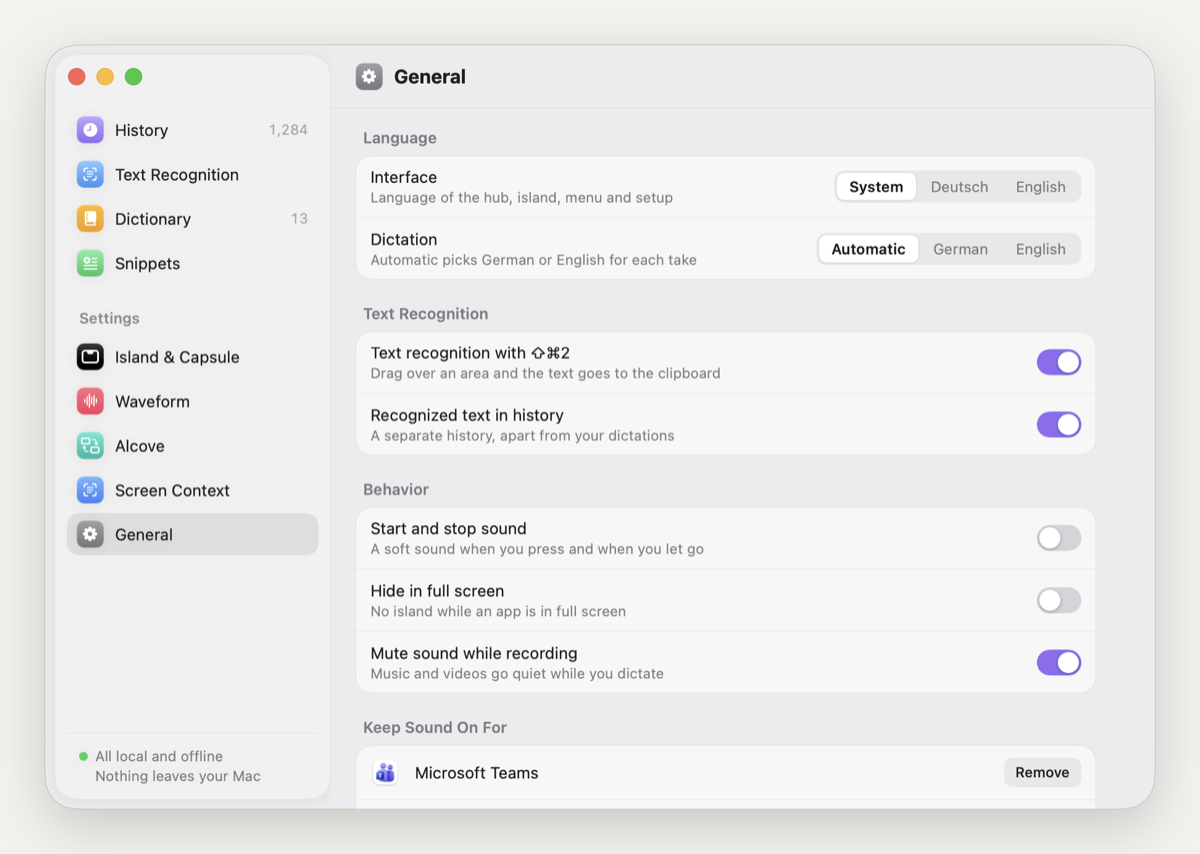
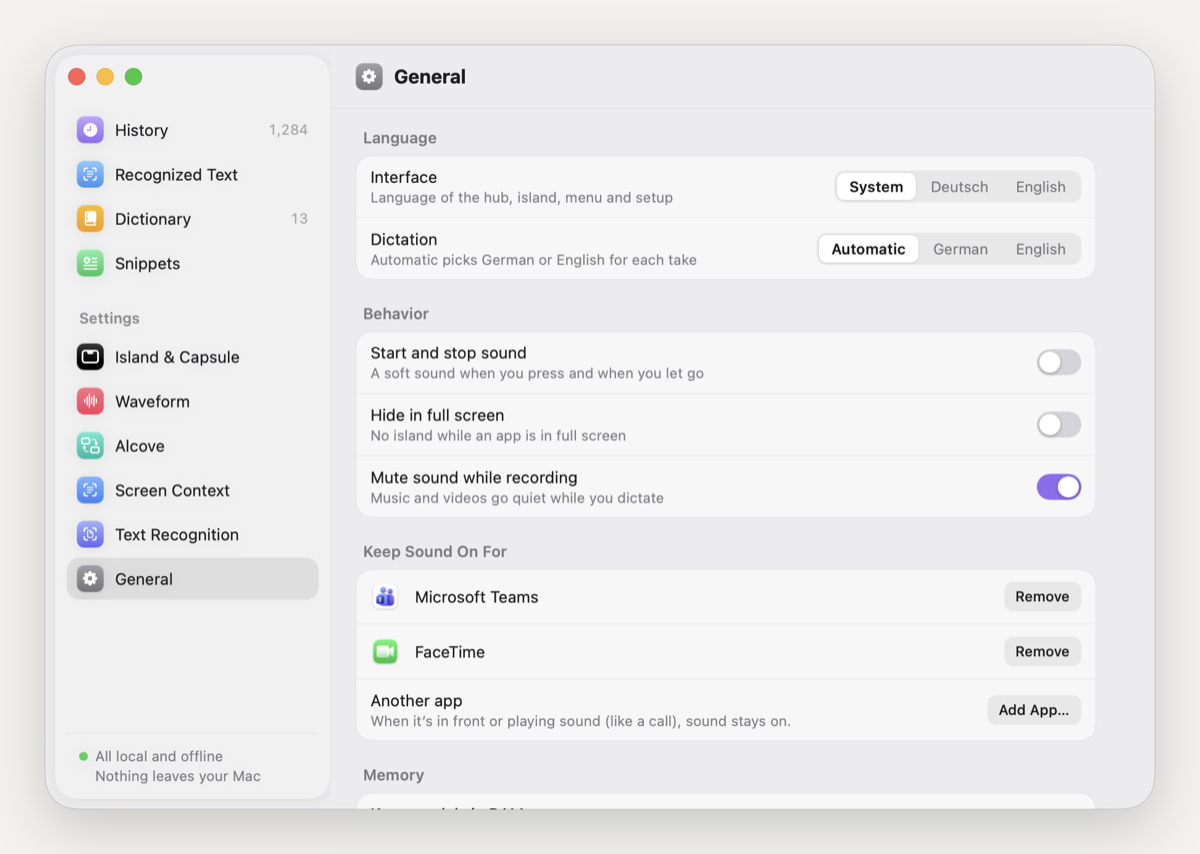
Hub: text recognition gets its own settings category (⇧⌘2, history, formulas, formulas per app); the list of recognized texts is called Erkannte Texte

diff --git a/ui/Hub.swift b/ui/Hub.swift
@@ -157,12 +157,12 @@ struct HubIcon {
 }
 
 enum HubPane: String, CaseIterable, Identifiable {
-    case verlauf, texterkennung, woerterbuch, kuerzel, insel, welle, alcove, kontext, allgemein
+    case verlauf, texterkennung, woerterbuch, kuerzel, insel, welle, alcove, kontext, erkennung, allgemein
 
     static let top: [HubPane] = [.verlauf, .texterkennung, .woerterbuch, .kuerzel]
     /// the Alcove pane only exists when Alcove is installed
     static var settings: [HubPane] {
-        [.insel, .welle, .alcove, .kontext, .allgemein].filter { $0 != .alcove || HubSystem.alcoveInstalled() }
+        [.insel, .welle, .alcove, .kontext, .erkennung, .allgemein].filter { $0 != .alcove || HubSystem.alcoveInstalled() }
     }
 
     var id: String { rawValue }
@@ -170,7 +170,8 @@ enum HubPane: String, CaseIterable, Identifiable {
     var title: String {
         switch self {
         case .verlauf: return L("Verlauf")
-        case .texterkennung: return L("Texterkennung")
+        case .texterkennung: return L("Erkannte Texte")
+        case .erkennung: return L("Texterkennung")
         case .woerterbuch: return L("Wörterbuch")
         case .kuerzel: return L("Kürzel")
         case .insel: return L("Insel & Kapsel")
@@ -193,6 +194,7 @@ enum HubPane: String, CaseIterable, Identifiable {
         case .welle: return HubIcon(symbol: "waveform", top: 0xFB7185, bottom: 0xF43F5E)
         case .alcove: return HubIcon(symbol: "rectangle.2.swap", top: 0x5EEAD4, bottom: 0x14B8A6)
         case .kontext: return HubIcon(symbol: "text.viewfinder", top: 0x7DB6FF, bottom: 0x3B82F6)
+        case .erkennung: return HubIcon(symbol: "doc.text.viewfinder", top: 0xA5B4FC, bottom: 0x6366F1)
         case .allgemein: return HubIcon(symbol: "gearshape.fill", top: 0xA1A1A6, bottom: 0x76767B)
         }
     }
@@ -531,6 +533,7 @@ struct HubDetail: View {
             case .welle: HubWavePane(model: model)
             case .alcove: HubAlcovePane(model: model)
             case .kontext: HubContextPane(model: model)
+            case .erkennung: HubScreenTextPane(model: model)
             case .allgemein: HubGeneralPane(model: model)
             }
         }
@@ -1861,19 +1864,6 @@ struct HubGeneralPane: View {
                                      select: { v in model.update { $0.dictationLanguage = v } })
                     }
                 }
-                HubGroupLabel(L("Texterkennung"), top: 20)
-                HubCard {
-                    HubRow(L("Texterkennung mit ⇧⌘2"), subtitle: L("Bereich aufziehen, der Text landet in der Zwischenablage. ⌥ antippen für Formeln")) {
-                        HubSwitch(isOn: model.binding(\.screenText))
-                    }
-                    HubSeparator()
-                    HubRow(L("Erkannte Texte im Verlauf"), subtitle: L("Eigener Verlauf, getrennt von den Diktaten")) {
-                        HubSwitch(isOn: model.binding(\.screenTextHistory))
-                    }
-                }
-                if model.state.settings.screenText {
-                    HubFormulaApps(model: model)
-                }
                 HubGroupLabel(L("Verhalten"), top: 20)
                 HubCard {
                     HubRow(L("Start- und Stopp-Ton"), subtitle: L("Leiser Ton beim Drücken und beim Loslassen")) {
@@ -2724,6 +2714,39 @@ enum HubContextCopy {
     static func appName(_ bundle: String) -> String {
         guard let url = NSWorkspace.shared.urlForApplication(withBundleIdentifier: bundle) else { return bundle }
         return FileManager.default.displayName(atPath: url.path).replacingOccurrences(of: ".app", with: "")
+    }
+}
+
+/// Texterkennung settings (05.10., Nils: out of Allgemein, into a category of their own):
+/// ⇧⌘2 on or off, its history, the formulas and what each app gets.
+struct HubScreenTextPane: View {
+    let model: HubModel
+
+    var body: some View {
+        VStack(spacing: 0) {
+            HubPaneHeader(pane: .erkennung)
+            HubSettingsColumn {
+                HubCard {
+                    HubRow(L("Texterkennung mit ⇧⌘2"), subtitle: L("Bereich aufziehen, der Text landet in der Zwischenablage")) {
+                        HubSwitch(isOn: model.binding(\.screenText))
+                    }
+                    HubSeparator()
+                    HubRow(L("Erkannte Texte im Verlauf"), subtitle: L("Eigener Verlauf, getrennt von den Diktaten")) {
+                        HubSwitch(isOn: model.binding(\.screenTextHistory))
+                    }
+                }
+                if model.state.settings.screenText {
+                    HubGroupLabel(L("Formeln"), top: 20)
+                    HubCard {
+                        HubRow(L("⌥ antippen beim Aufziehen"),
+                               subtitle: L("Nach ⇧⌘2 schaltet ⌥ zwischen Text und Formeln um, die Insel zeigt, was gilt. Brüche, Hochzahlen, Wurzeln und der Text drumherum, gelesen vom lokalen Sprachmodell.")) {
+                            EmptyView()
+                        }
+                    }
+                    HubFormulaApps(model: model)
+                }
+            }
+        }
     }
 }
 

diff --git a/ui/Strings+Hub.swift b/ui/Strings+Hub.swift
@@ -170,9 +170,14 @@ extension Loc {
         "Deutsch": "German",
         "Englisch": "English",
         "Texterkennung mit ⇧⌘2": "Text recognition with ⇧⌘2",
-        "Bereich aufziehen, der Text landet in der Zwischenablage. ⌥ antippen für Formeln": "Drag over an area and the text goes to the clipboard. Tap ⌥ for formulas",
         "Erkannte Texte im Verlauf": "Recognized text in history",
         "Formeln je App": "Formulas per App",
+        "Erkannte Texte": "Recognized Text",
+        "Formeln": "Formulas",
+        "⌥ antippen beim Aufziehen": "Tap ⌥ While Choosing",
+        "Nach ⇧⌘2 schaltet ⌥ zwischen Text und Formeln um, die Insel zeigt, was gilt. Brüche, Hochzahlen, Wurzeln und der Text drumherum, gelesen vom lokalen Sprachmodell.":
+            "After ⇧⌘2, ⌥ switches between text and formulas, and the island shows which one applies. Fractions, powers, roots and the text around them, read by the local language model.",
+        "Bereich aufziehen, der Text landet in der Zwischenablage": "Drag over an area and the text goes to the clipboard",
         "Formel": "Equation",
         "Zeichen": "Characters",
         "Eine App aus dem Programme-Ordner auswählen und festlegen, was dort ankommt.": "Pick an app from the Applications folder and choose what it receives.",

diff --git a/ui/HubRender.swift b/ui/HubRender.swift
@@ -40,6 +40,7 @@ enum HubRenderer {
         Shot(name: "alcove-ausweichen", pane: .alcove, settings: { $0.alcove = .dodge }),
         Shot(name: "kontext", pane: .kontext, settings: { $0.contextApps = ["com.apple.mail": 3] }),
         Shot(name: "kuerzel", pane: .kuerzel),
+        Shot(name: "erkennung", pane: .erkennung),
         Shot(name: "allgemein", pane: .allgemein),
     ]
 

diff --git a/README.md b/README.md
@@ -82,7 +82,9 @@ What lands on the clipboard depends on where you paste:
 - **Word:** real, editable equations.
 - **Notes, Mail and everything else:** readable characters, for example σ², √(x + 1), (a − μ)/σ.
 
-You can change this for each app, and add apps, in the hub under General, "Formulas per App".
+You can change this for each app, and add apps, in the hub under Text Recognition:
+
+![Formulas per app in the hub](docs/screenshots/hub-erkennung.png)
 
 ![A formula recognised](docs/screenshots/formula-done.jpg)
 
@@ -120,7 +122,7 @@ From 5 seconds the island counts the seconds; from 10 seconds it says so and off
 
 ### The hub
 
-History with the original transcript next to the cleaned text, the dictionary, snippets, the look of the island, screen context per app and general settings, including both languages. Open it from the microphone in the menu bar.
+History with the original transcript next to the cleaned text, recognized text, the dictionary, snippets, the look of the island, screen context per app, text recognition with formulas per app, and general settings, including both languages. Open it from the microphone in the menu bar.
 
 ![History, with the original transcript unfolded](docs/screenshots/hub-verlauf.png)
 
